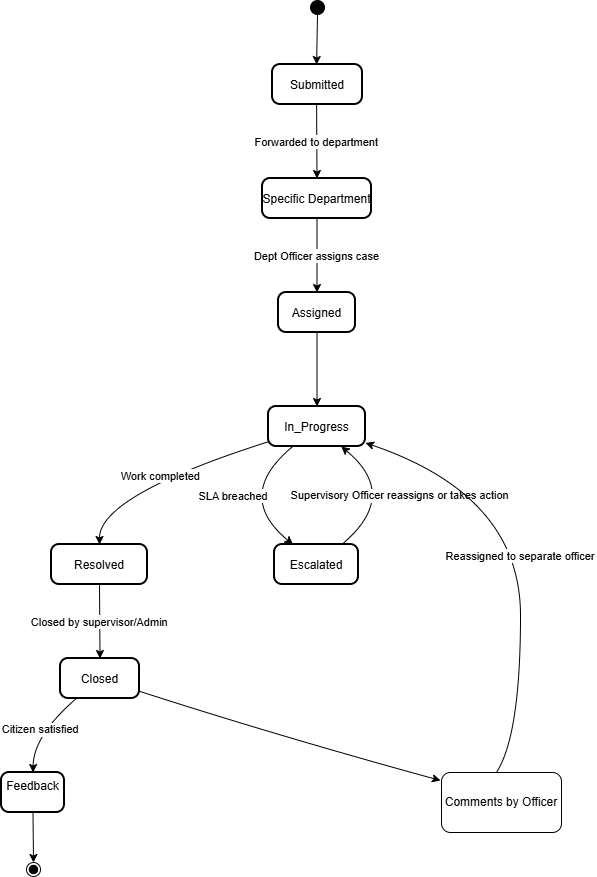
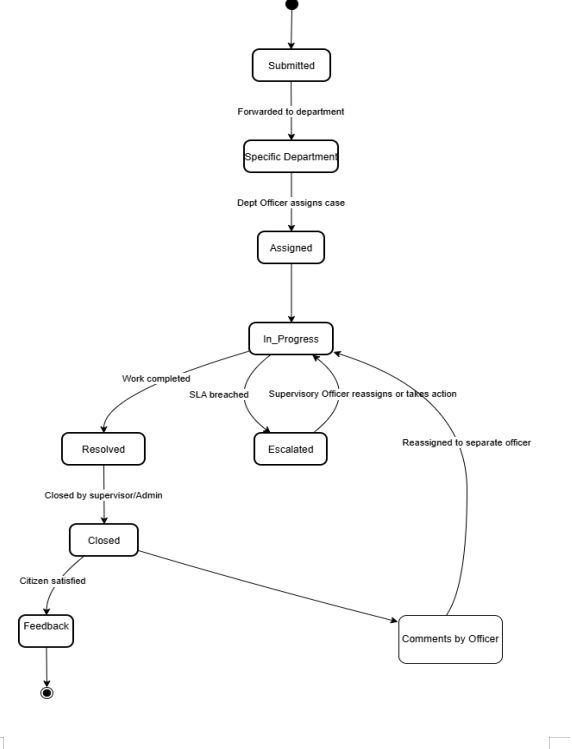
Document updated

Changed region(s): [[0.0, 0.0, 1.0, 1.0], [0.951, 0.9826, 0.9808, 1.0]]

diff --git a/README.md b/README.md
@@ -1,0 +1,227 @@
+# E-Governance Grievance Redressal System
+
+The proposed **E-Governance Grievance Redressal System** is a centralized platform built using **Angular 21** and **Spring Boot 3.5.9** that enables citizens to submit and track grievances online. The system automatically routes complaints to the appropriate departments, monitors the grievance lifecycle, and provides real-time status updates and dashboards to ensure transparency, accountability, and timely resolution.
+
+<p align="left">
+  <img src="https://img.shields.io/badge/Angular-21-DD0031?style=for-the-badge&logo=angular&logoColor=white" />
+  <img src="https://img.shields.io/badge/Spring%20Boot-3.2.5-6DB33F?style=for-the-badge&logo=springboot&logoColor=white" />
+  <img src="https://img.shields.io/badge/WebFlux-Reactive-0A7EA4?style=for-the-badge" />
+  <img src="https://img.shields.io/badge/Jenkins-CI%2FCD-D24939?style=for-the-badge&logo=jenkins&logoColor=white" />
+  <img src="https://img.shields.io/badge/Docker-Containerized-2496ED?style=for-the-badge&logo=docker&logoColor=white" />
+  <img src="https://img.shields.io/badge/Netlify-Frontend-00C7B7?style=for-the-badge&logo=netlify&logoColor=white" />
+  <img src="https://img.shields.io/badge/Azure-VM-0078D4?style=for-the-badge&logo=microsoftazure&logoColor=white" />
+</p>
+
+## Features
+
+<ul>
+  <li>Centralized grievance submission and tracking system</li>
+  <li>Microservices architecture with Spring WebFlux</li>
+  <li>CI/CD pipeline implemented using Jenkins</li>
+  <li>Containerized services using Docker</li>
+  <li>Service discovery using Eureka Server</li>
+  <li>Frontend deployed on Netlify and backend hosted on Azure VM</li>
+</ul>
+
+-----
+
+## Links
+
+<table border="1" cellpadding="8" cellspacing="0">
+  <tr>
+    <th>Component</th>
+    <th>Repository / Document</th>
+  </tr>
+  <tr>
+    <td>Frontend</td>
+    <td>
+      <a href="https://github.com/kanchanraiii/EGovGrievance_Frontend" target="_blank">
+        Frontend Repository
+      </a>
+    </td>
+  </tr>
+  <tr>
+    <td>Design Document</td>
+    <td>
+      <a href="https://github.com/kanchanraiii/EGovGrievance_Backend/blob/main/Results%20Document.docx">
+        Design Document.docx
+      </a>
+    </td>
+  </tr>
+  <tr>
+    <td>Results Document</td>
+    <td>
+      <a href="https://github.com/kanchanraiii/EGovGrievance_Backend/blob/main/Results%20Document.docx">
+        Results Document.docx
+      </a>
+    </td>
+  </tr>
+</table>
+
+---
+
+## Web Preview
+
+<table>
+  <tr>
+    <td align="center">
+      <strong>Home Page</strong><br />
+      <img src="https://github.com/kanchanraiii/EGovGrievance_Backend/blob/main/images/homepage.png" width="450"/>
+    </td>
+    <td align="center">
+      <strong>Grievance Dashboard</strong><br />
+      <img src="https://github.com/kanchanraiii/EGovGrievance_Backend/blob/main/images/Screenshot%202026-01-07%20000839.png" width="450"/>
+    </td>
+  </tr>
+</table>
+
+---
+
+## Backend Preview (Azure VM)
+
+<table>
+  <tr>
+    <td align="center">
+      <strong>Docker containers running on VM</strong><br />
+      <img src="https://github.com/kanchanraiii/EGovGrievance_Backend/blob/main/images/Screenshot%202026-01-07%20001057.png" width="450"/>
+    </td>
+    <td align="center">
+      <strong>Azure Deployment VM</strong><br />
+      <img src="https://github.com/kanchanraiii/EGovGrievance_Backend/blob/main/images/Screenshot%202026-01-07%20001126.png" width="450"/>
+    </td>
+  </tr>
+</table>
+
+---
+
+## Jenkins CI/CD Preview
+
+<table>
+  <tr>
+    <td align="center">
+      <strong>Jenkins Build Preview</strong><br />
+      <img src="https://github.com/kanchanraiii/EGovGrievance_Backend/blob/main/images/Screenshot%202026-01-07%20000958.png" width="450"/>
+    </td>
+    <td align="center">
+      <strong>Jenkins GitHub Webhook</strong><br />
+      <img src="https://github.com/kanchanraiii/EGovGrievance_Backend/blob/main/images/Screenshot%202026-01-07%20001241.png" width="450"/>
+    </td>
+  </tr>
+</table>
+
+------
+
+## SonarQube Code Quality Report
+
+<table>
+  <tr>
+    <td align="center">
+      <strong>94.1% Coverage</strong><br />
+      <img src="https://github.com/kanchanraiii/EGovGrievance_Backend/blob/main/images/Screenshot%202026-01-07%20002453.png" width="700"/>
+    </td>
+    <td align="center">
+      <strong>SonarQube Analysis Dashboard</strong><br />
+      <img src="https://github.com/kanchanraiii/EGovGrievance_Backend/blob/main/images/Screenshot%202026-01-07%20002631.png" width="700"/>
+    </td>
+  </tr>
+</table>
+
+---
+
+
+
+---
+
+## User Roles
+
+<table border="1" cellpadding="8" cellspacing="0" 
+       style="border-collapse: collapse; text-align: center; vertical-align: middle; width: 100%;">
+  <tr>
+    <th>User</th>
+    <th>Role</th>
+  </tr>
+  <tr>
+    <td>Citizen</td>
+    <td>Submits and tracks grievances</td>
+  </tr>
+  <tr>
+    <td>Admin</td>
+    <td>Manages staff users and departments</td>
+  </tr>
+  <tr>
+    <td>Department Officer</td>
+    <td>Manages grievances and assigns them to case workers</td>
+  </tr>
+  <tr>
+    <td>Supervisory Officer</td>
+    <td>Resolves escalated grievances</td>
+  </tr>
+  <tr>
+    <td>Case Worker</td>
+    <td>Handles assigned grievances and updates status</td>
+  </tr>  
+</table>
+
+---
+
+## API Endpoints
+
+### Auth-Service
+<table>
+  <thead><tr><th>Method</th><th>Path</th><th>Allowed Roles</th></tr></thead>
+  <tbody>
+    <tr><td>POST</td><td>/api/auth/register</td><td>Permit all</td></tr>
+    <tr><td>POST</td><td>/api/auth/citizen/register</td><td>Permit all</td></tr>
+    <tr><td>POST</td><td>/api/auth/case-worker/register</td><td>DEPARTMENT_OFFICER, ADMIN</td></tr>
+    <tr><td>POST</td><td>/api/auth/admin/register</td><td>Permit all</td></tr>
+    <tr><td>POST</td><td>/api/auth/login</td><td>Permit all</td></tr>
+    <tr><td>GET</td><td>/api/auth/profile</td><td>Any authenticated user</td></tr>
+  </tbody>
+</table>
+
+### Storage-Service
+<table>
+  <thead><tr><th>Method</th><th>Path</th><th>Allowed Roles</th></tr></thead>
+  <tbody>
+    <tr><td>POST</td><td>/api/files/upload</td><td>All authenticated roles</td></tr>
+    <tr><td>GET</td><td>/api/files/{fileId}</td><td>Any authenticated user</td></tr>
+  </tbody>
+</table>
+
+### Feedback-Service
+<table>
+  <thead><tr><th>Method</th><th>Path</th><th>Allowed Roles</th></tr></thead>
+  <tbody>
+    <tr><td>POST</td><td>/api/feedback/add-feedback</td><td>CITIZEN</td></tr>
+    <tr><td>GET</td><td>/api/feedback/grievance/{grievanceId}</td><td>Authorized roles</td></tr>
+  </tbody>
+</table>
+
+### Notification-Service
+<table>
+  <thead><tr><th>Method</th><th>Path</th><th>Allowed Roles</th></tr></thead>
+  <tbody>
+    <tr><td>GET</td><td>/api/notifications/user/{userId}</td><td>Any authenticated user</td></tr>
+  </tbody>
+</table>
+
+### Grievance-Service
+<table>
+  <thead><tr><th>Method</th><th>Path</th><th>Allowed Roles</th></tr></thead>
+  <tbody>
+    <tr><td>POST</td><td>/api/grievances/create</td><td>CITIZEN</td></tr>
+    <tr><td>GET</td><td>/api/grievances/{id}</td><td>Any authenticated user</td></tr>
+    <tr><td>PATCH</td><td>/api/grievances/status</td><td>Authorized roles</td></tr>
+  </tbody>
+</table>
+
+---
+
+<hr />
+<p align="center">
+  Made by 
+  <a href="https://kanchanraiii.xyz" target="_blank">
+    Kanchan Rai 
+  </a>
+  
+</p>
